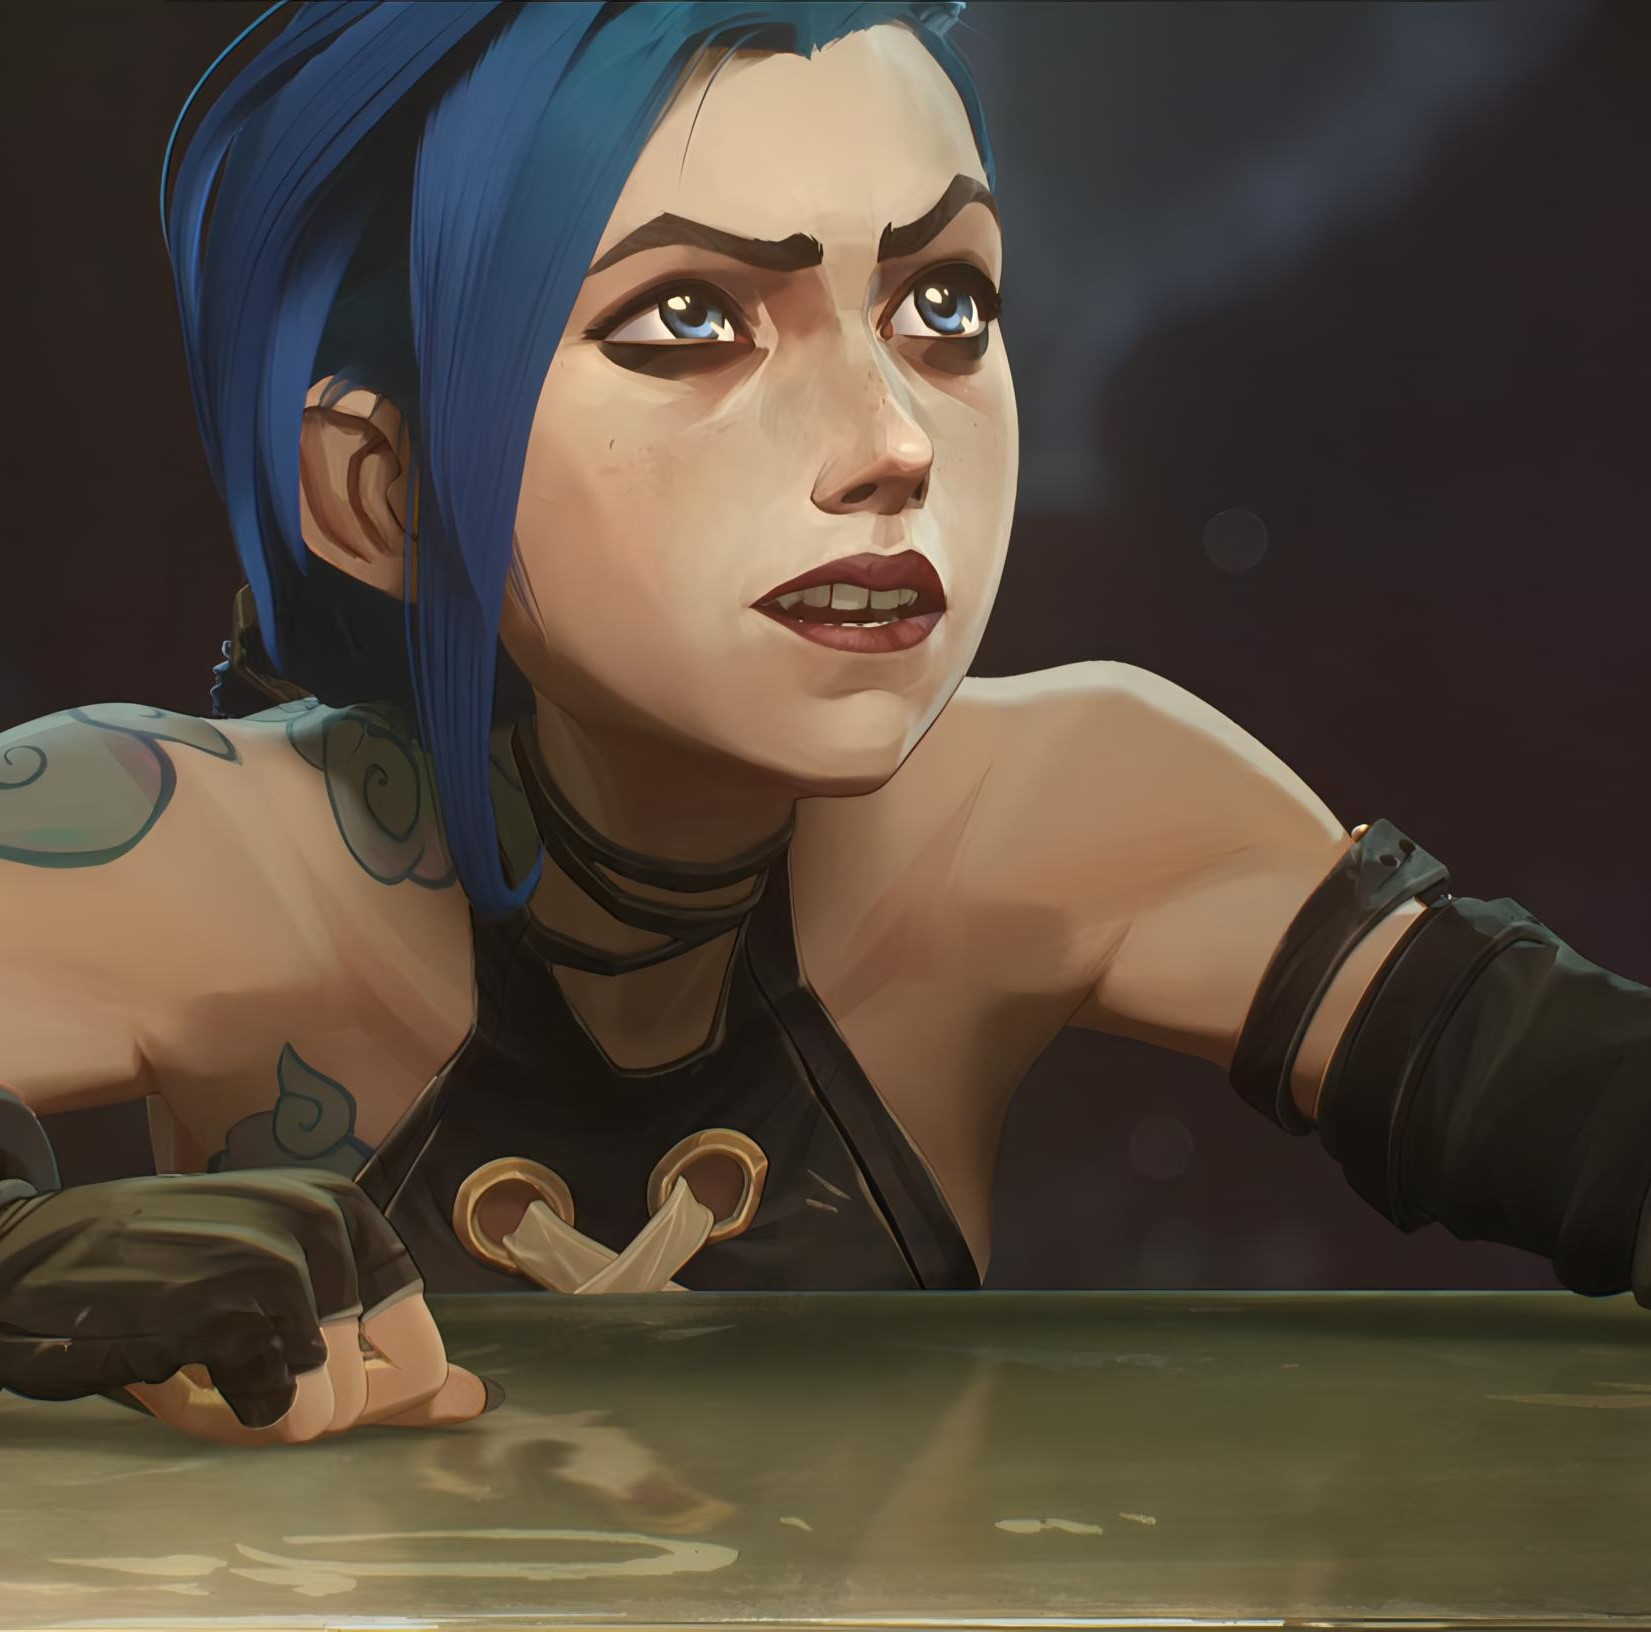
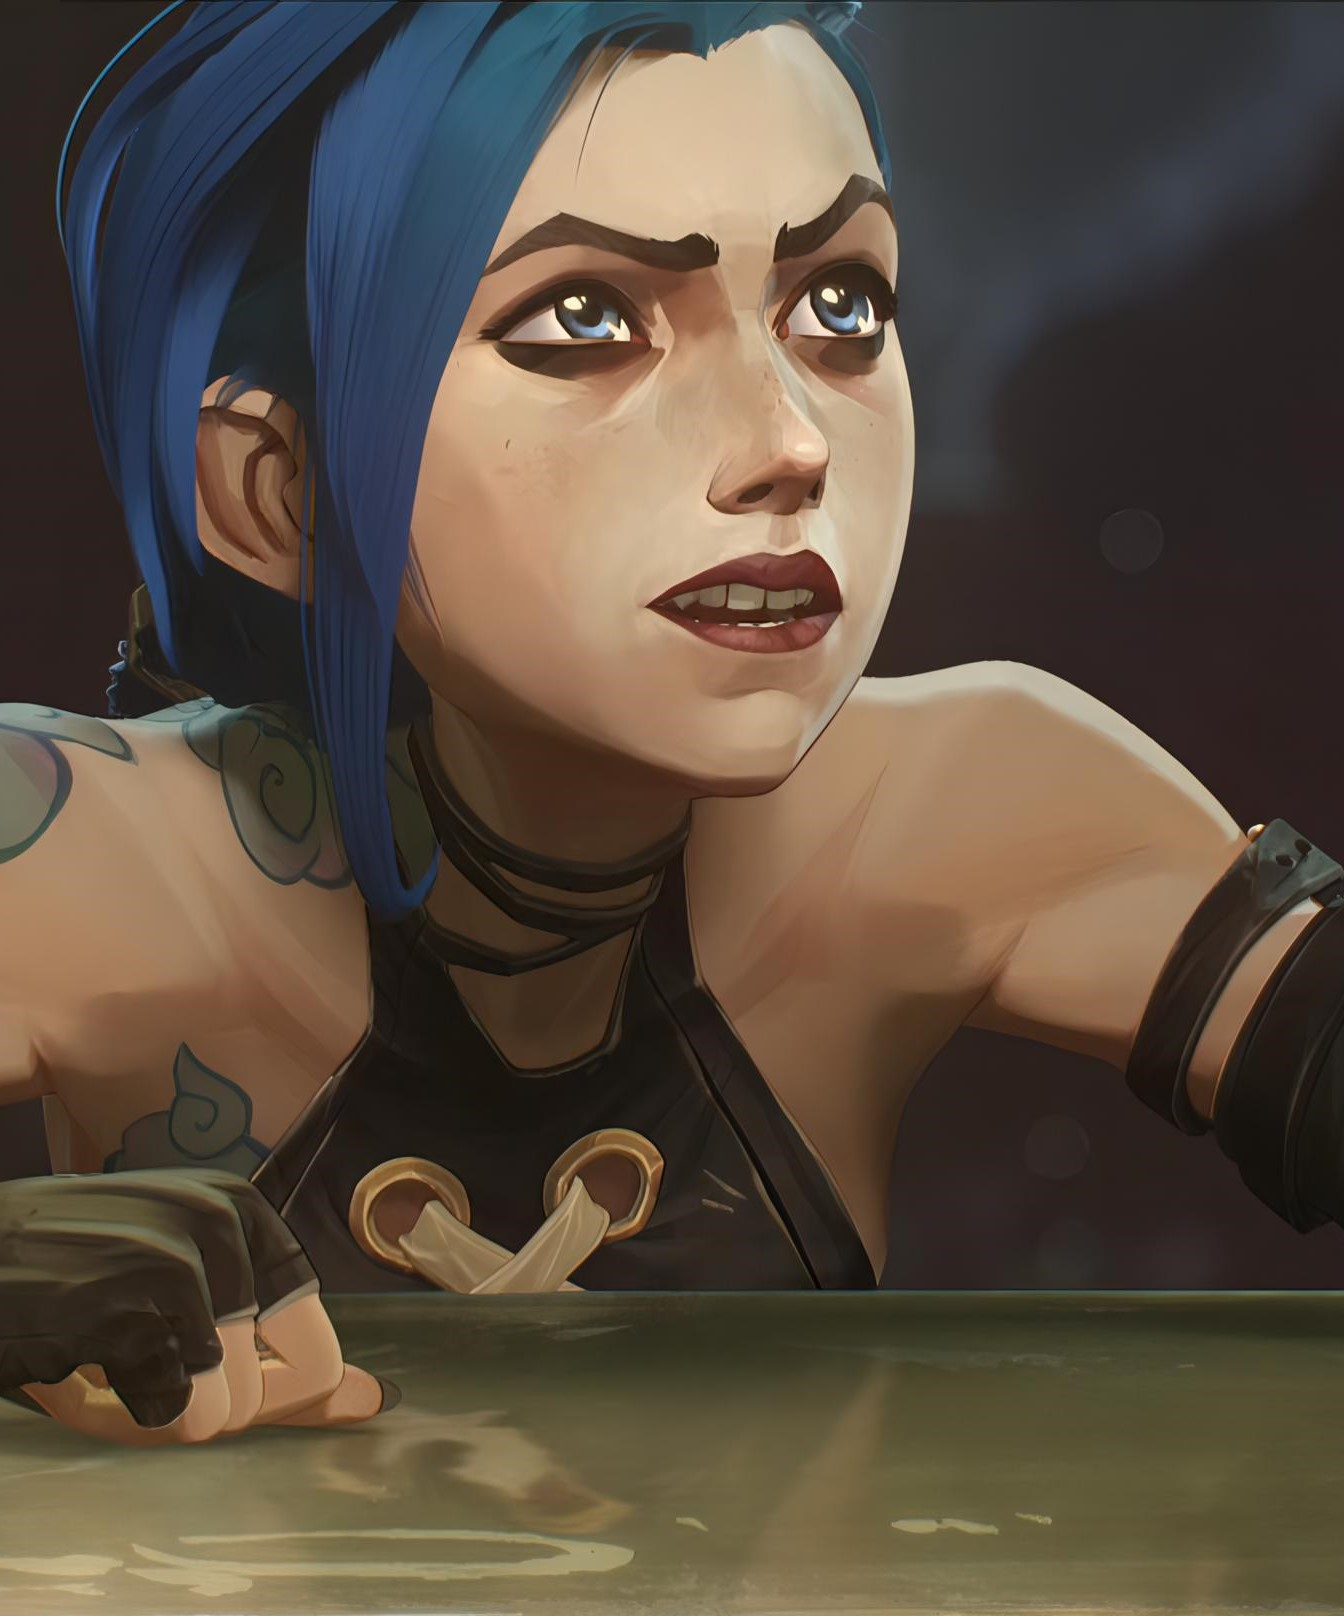
Background - 2

diff --git a/site-lor/style.css b/site-lor/style.css
@@ -137,13 +137,14 @@ strong {
 
 #container-card-nivel1 {
     align-items: flex-end;
+    border-bottom: 5px solid #fff;
     display: flex;
     justify-content: flex-start;
     background-image: url('imagens/jinx-se-perguntando.jpeg');
     background-repeat: no-repeat;
     background-position: right top;
     background-size: cover;
-    height: 68vh;
+    height: 75vh;
     padding: 4.2rem 0px 0px 0px;
     width: 100%;
 }
@@ -194,13 +195,17 @@ RESPONSIVIDADE
         background-color: rgba(0, 0, 0, 0.918);
         max-width: 600px;
     }
+
+    #container-card-nivel1 {
+        background-position: center center;
+    }
 }
 
 
 @media (max-width: 1000px) {
     
     html {
-        font-size: 51%;
+        font-size: 50%;
     }
     
     #lista-dos-links {
@@ -253,6 +258,7 @@ RESPONSIVIDADE
 }
 
 @media (max-width: 620px) {
+
     #caixa-de-informacao2 {
         border-right: 0px;
     }
@@ -274,6 +280,12 @@ RESPONSIVIDADE
         display: none;
     }
 
+}
+
+@media (max-width: 451px) {
+    #container-card-nivel1 {
+        background-image: url('imagens/jinx-se-perguntando-pequena.jpeg');
+    }
 }
 
 @media (max-width: 323px) {
